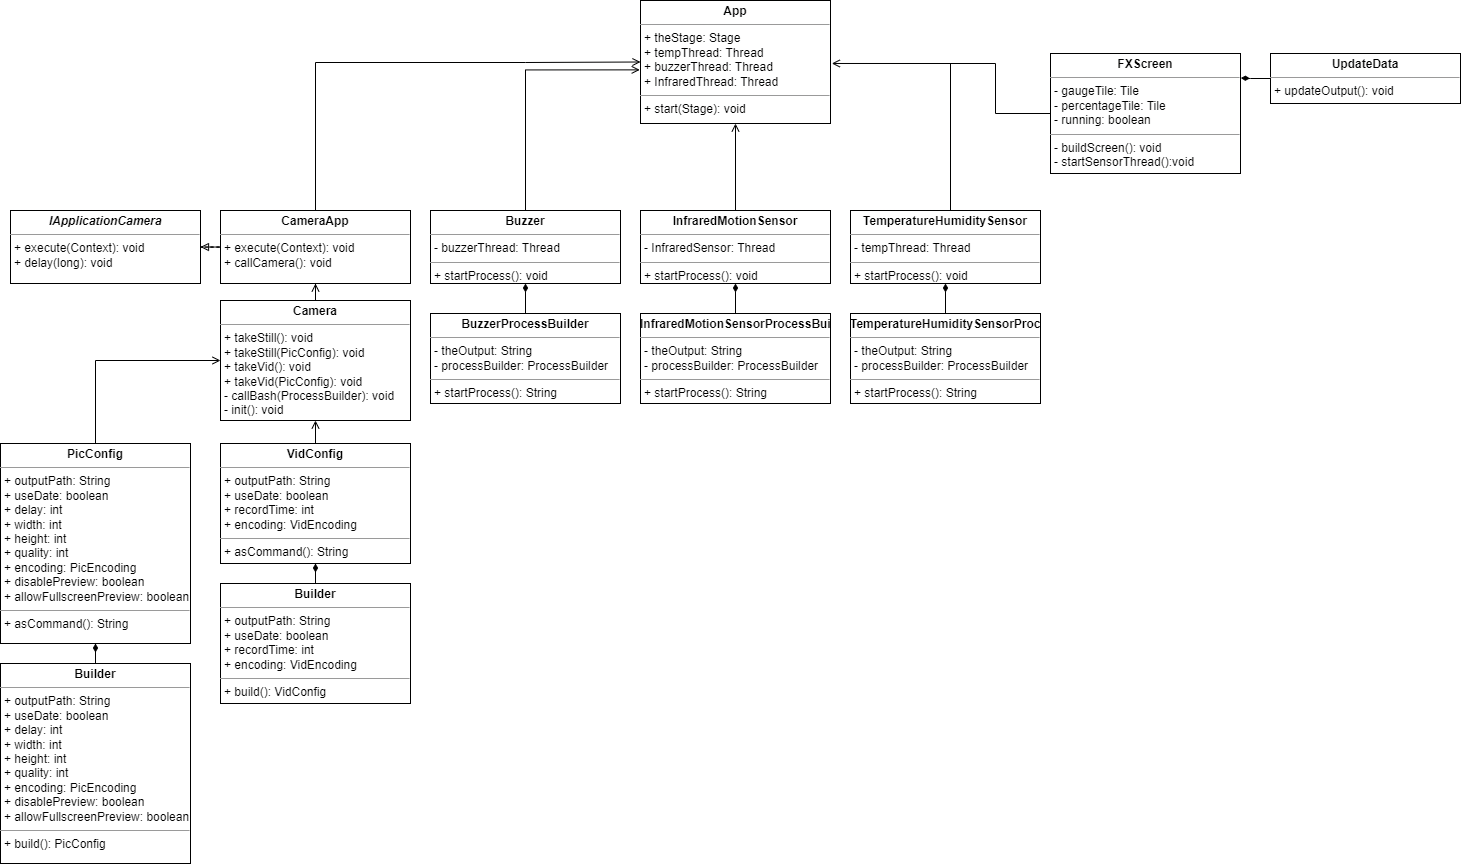
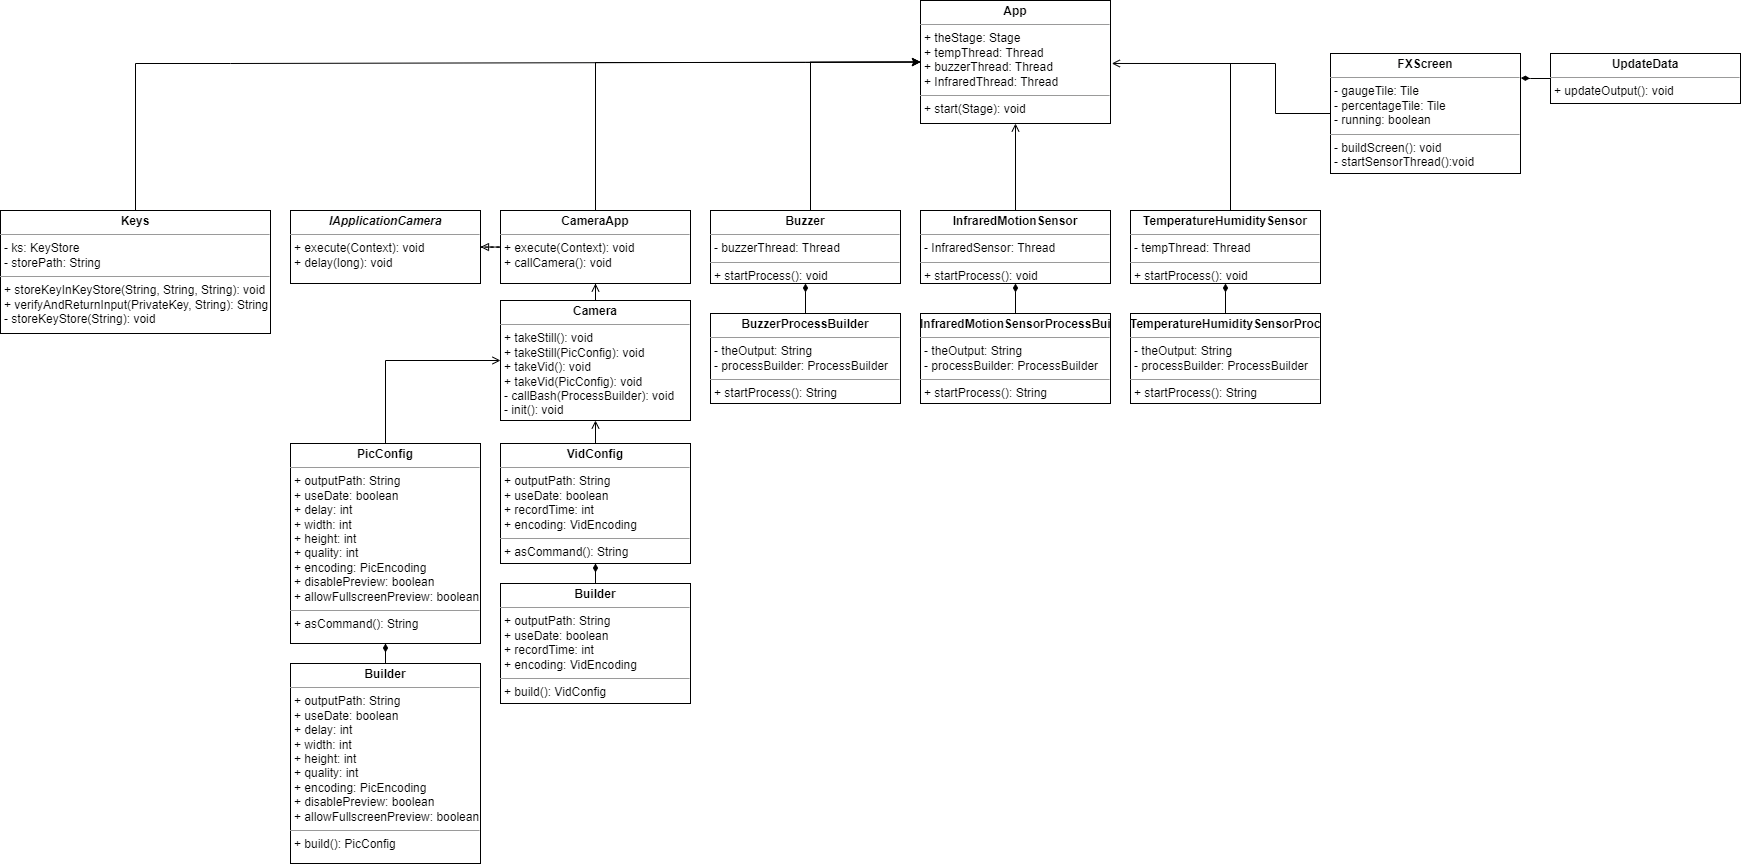
Updated the UML and tests to account for Keys.java

diff --git a/lab8_raagav/src/test/java/com/mycompany/mavenproject1/KeysTest.java b/lab8_raagav/src/test/java/com/mycompany/mavenproject1/KeysTest.java
@@ -1,0 +1,63 @@
+package com.mycompany.mavenproject1;
+
+import org.junit.jupiter.api.Test;
+import static org.junit.jupiter.api.Assertions.*;
+
+import java.security.PrivateKey;
+
+import javax.crypto.SecretKey;
+
+import com.mycompany.mavenproject1.Keys;
+
+/**
+ *
+ * @author Tuan Danh Huynh
+ */
+
+/* Test class for ProcessBuilderEx class */
+public class KeysTest {
+    
+    public Thread buzzerThread;
+    
+    //Constructor for the test class
+    public KeysTest() {
+        
+    }
+
+    /**
+     * Test creating a key
+     * @throws java.lang.Exception
+     */
+    @Test
+    public void testKey() throws Exception {
+        Keys key = new Keys("keystore123", "src\\main\\resources\\ProjectKeystore\\ECcertif.ks");
+        
+        assertTrue(true);
+    }
+    
+    /**
+     * Test getting a key
+     * @throws java.lang.Exception
+     */
+    @Test
+    public void testGetKey() throws Exception {
+        Keys key = new Keys("keystore123", "src\\main\\resources\\ProjectKeystore\\ECcertif.ks");
+        
+        // Verify that it returns a key
+        assertTrue(key.getKey("raagav", "raagav123") instanceof SecretKey);
+    }
+
+    /**
+     * Test storing a key
+     * @throws java.lang.Exception
+     */
+    @Test
+    public void testStoreKeyInKeyStore() throws Exception {
+        Keys key = new Keys("keystore123", "src\\main\\resources\\ProjectKeystore\\ECcertif.ks");
+        
+        // Verify that it returns a key
+        key.storeKeyInKeyStore("ragaav", "ragaav123", "keystore123");
+
+        assertTrue(true);
+    }
+}

diff --git a/lab8_raagav/src/test/java/com/mycompany/mavenproject1/TemperatureAndHumidityProcessBuilderTest.java b/lab8_raagav/src/test/java/com/mycompany/mavenproject1/TemperatureAndHumidityProcessBuilderTest.java
@@ -2,7 +2,7 @@ package com.mycompany.mavenproject1;
 
 import org.junit.jupiter.api.Test;
 import static org.junit.jupiter.api.Assertions.*;
-import com.mycompany.mavenproject1.InfraredMotionSensorProcessBuilder;
+import com.mycompany.mavenproject1.TemperatureAndHumidityProcessBuilder;
 
 /**
  *
@@ -12,12 +12,12 @@ import com.mycompany.mavenproject1.InfraredMotionSensorProcessBuilder;
 /* Test class for ProcessBuilderEx class */
 public class TemperatureAndHumidityProcessBuilderTest {
     
-    public InfraredMotionSensorProcessBuilder processInstance;
+    public TemperatureAndHumidityProcessBuilder processInstance;
     
     //Constructor for the test class
     public TemperatureAndHumidityProcessBuilderTest() {
         String pathAndFile = "src/main/Python/SebseLED.py";
-        processInstance = new InfraredMotionSensorProcessBuilder(pathAndFile);
+        processInstance = new TemperatureAndHumidityProcessBuilder(pathAndFile);
     } 
     
     /**
